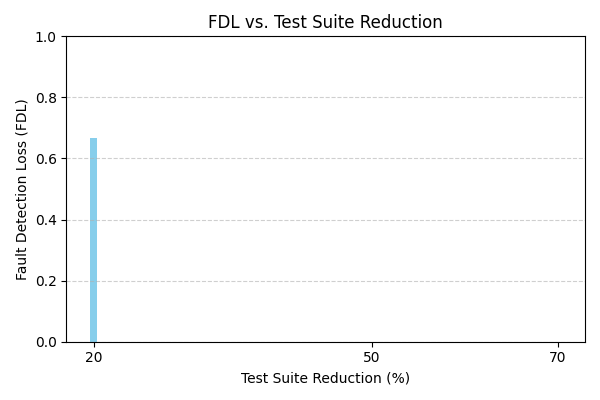
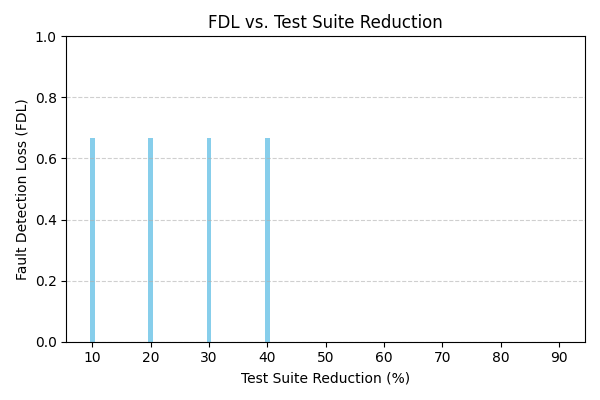
update dos resultados
resultados modificados para decremento de 10% em 9 rodadas ao inves de 3 rodadas

diff --git a/run_mc_toa_fdl.py b/run_mc_toa_fdl.py
@@ -16,7 +16,7 @@ def main(fault_matrix_path, coverage_matrix_path):
     fault_matrix = np.load(fault_matrix_path)
     coverage_matrix = np.load(coverage_matrix_path)
 
-    reduction_ratios = [0.2, 0.5, 0.7]
+    reduction_ratios = [0.9, 0.8, 0.7, 0.6, 0.5, 0.4, 0.3, 0.2, 0.1]
     results = []
 
     for ratio in reduction_ratios:
